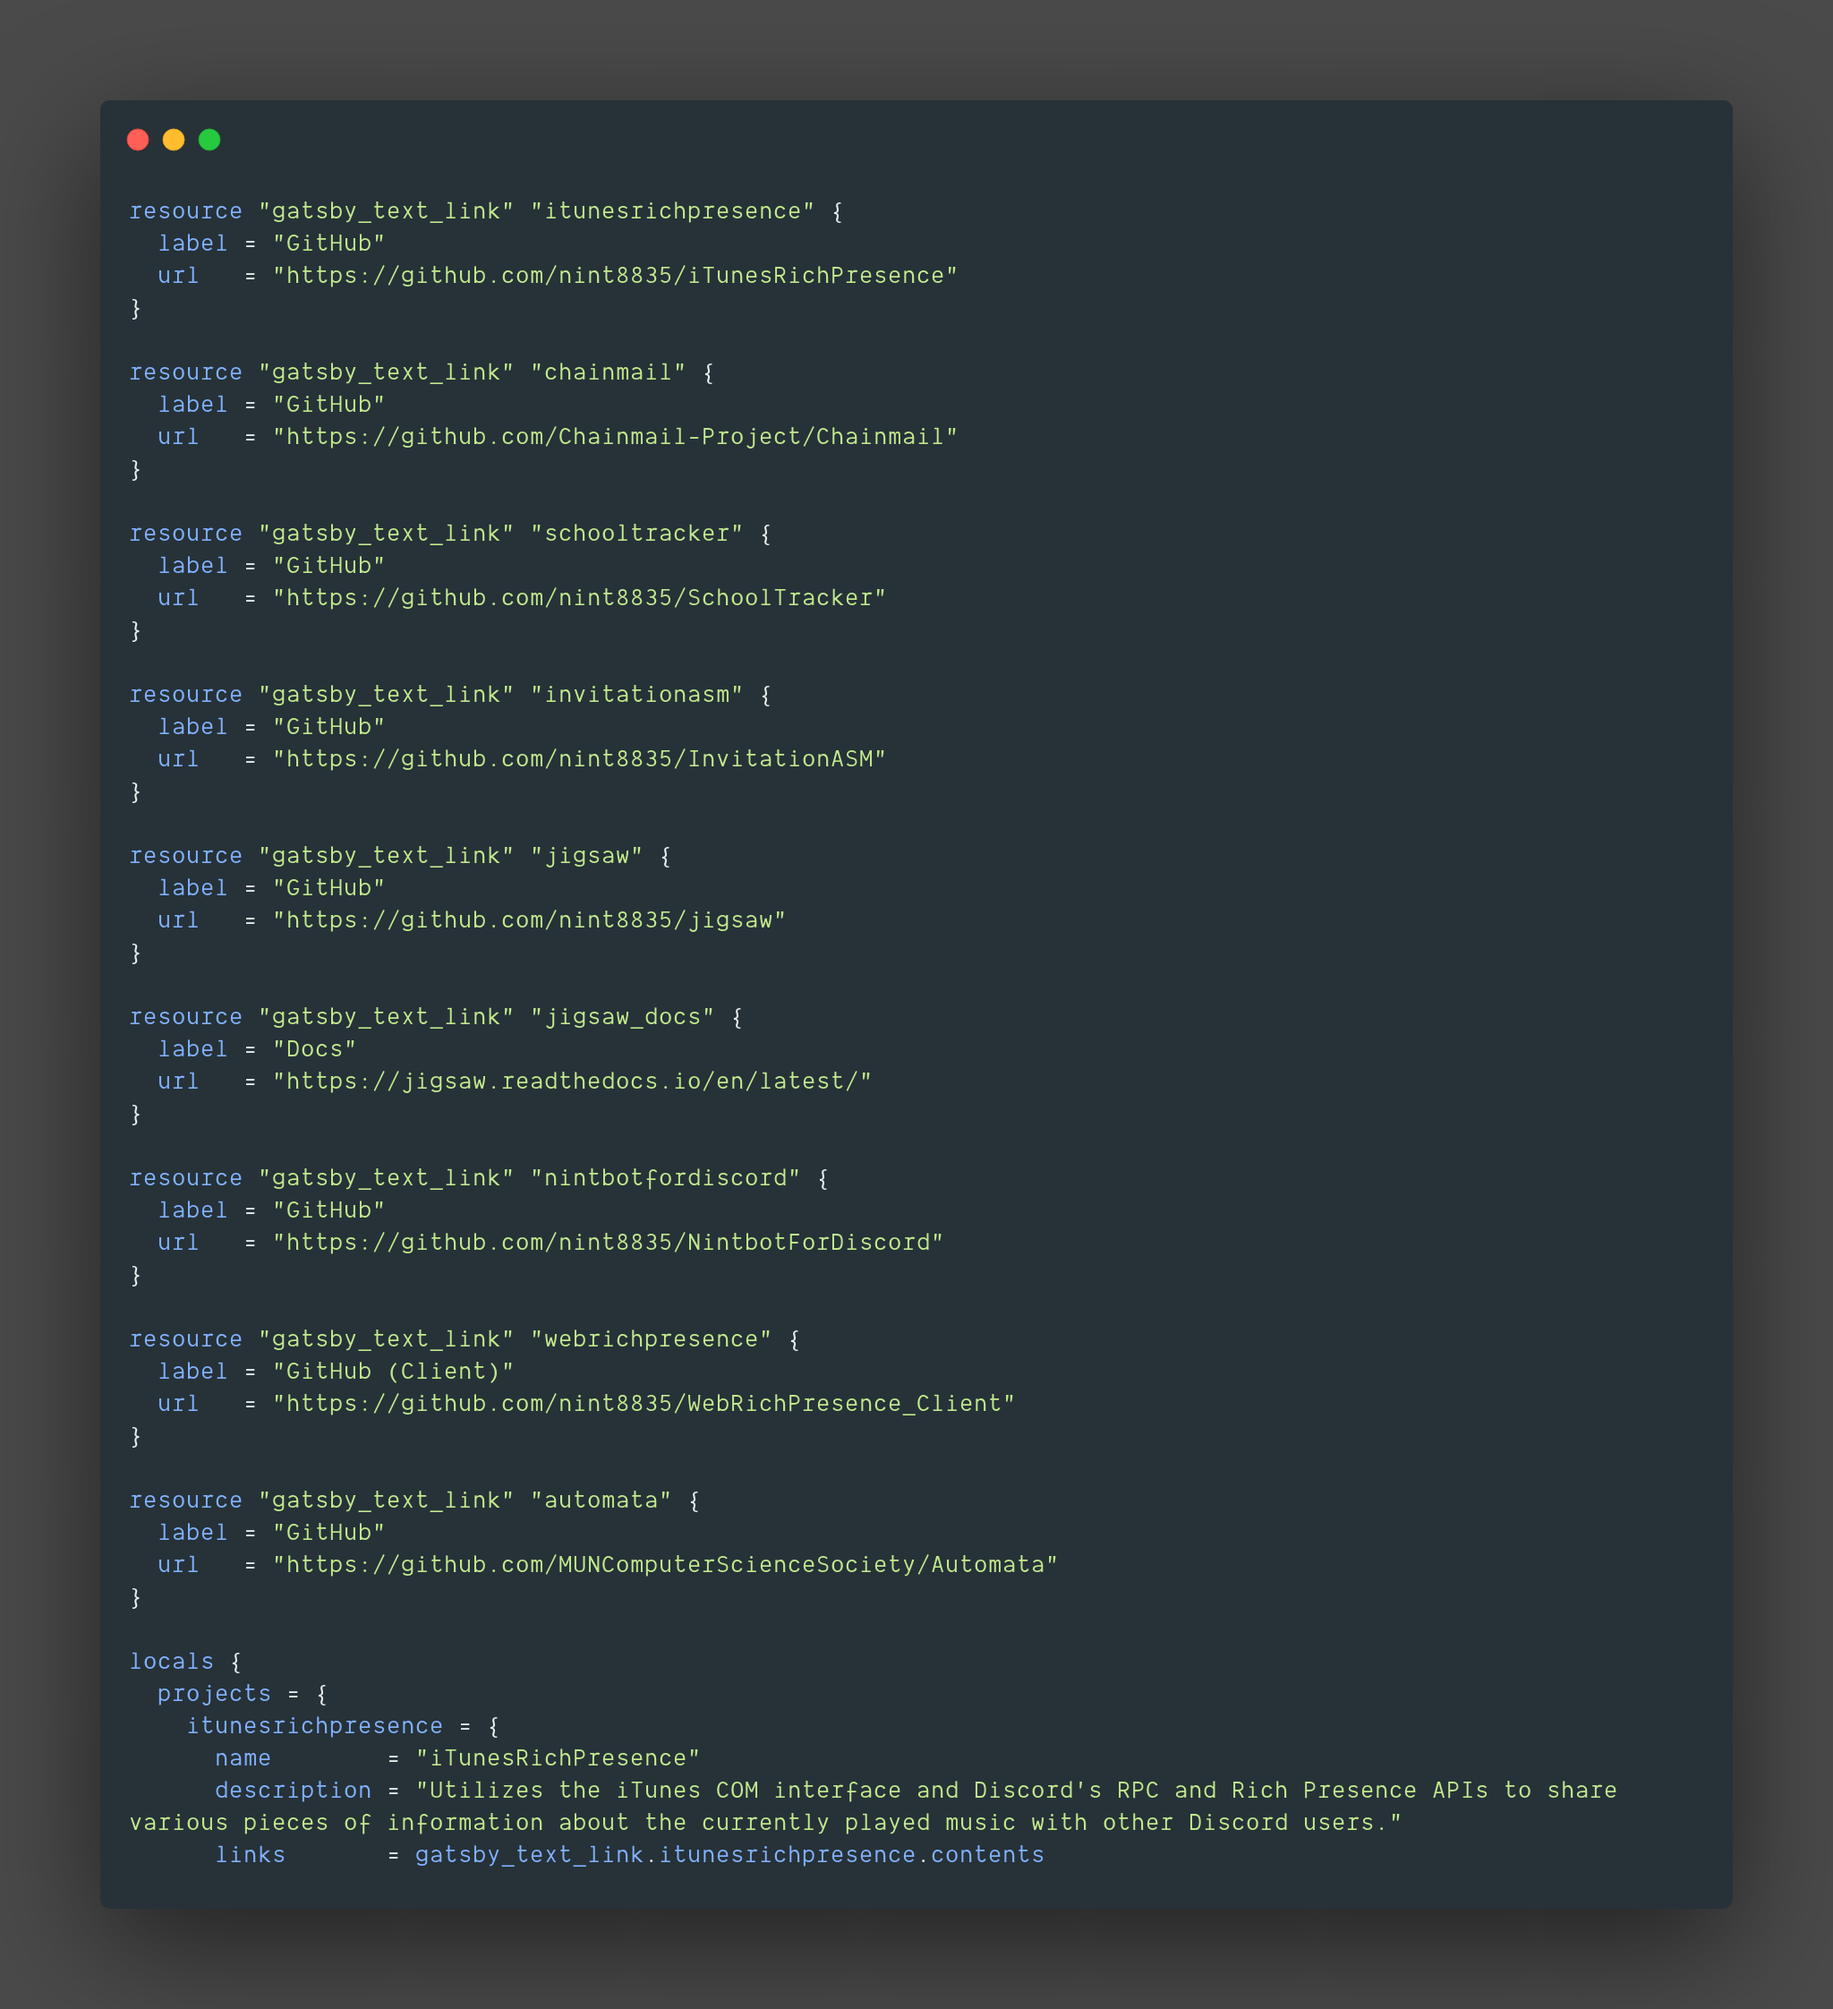
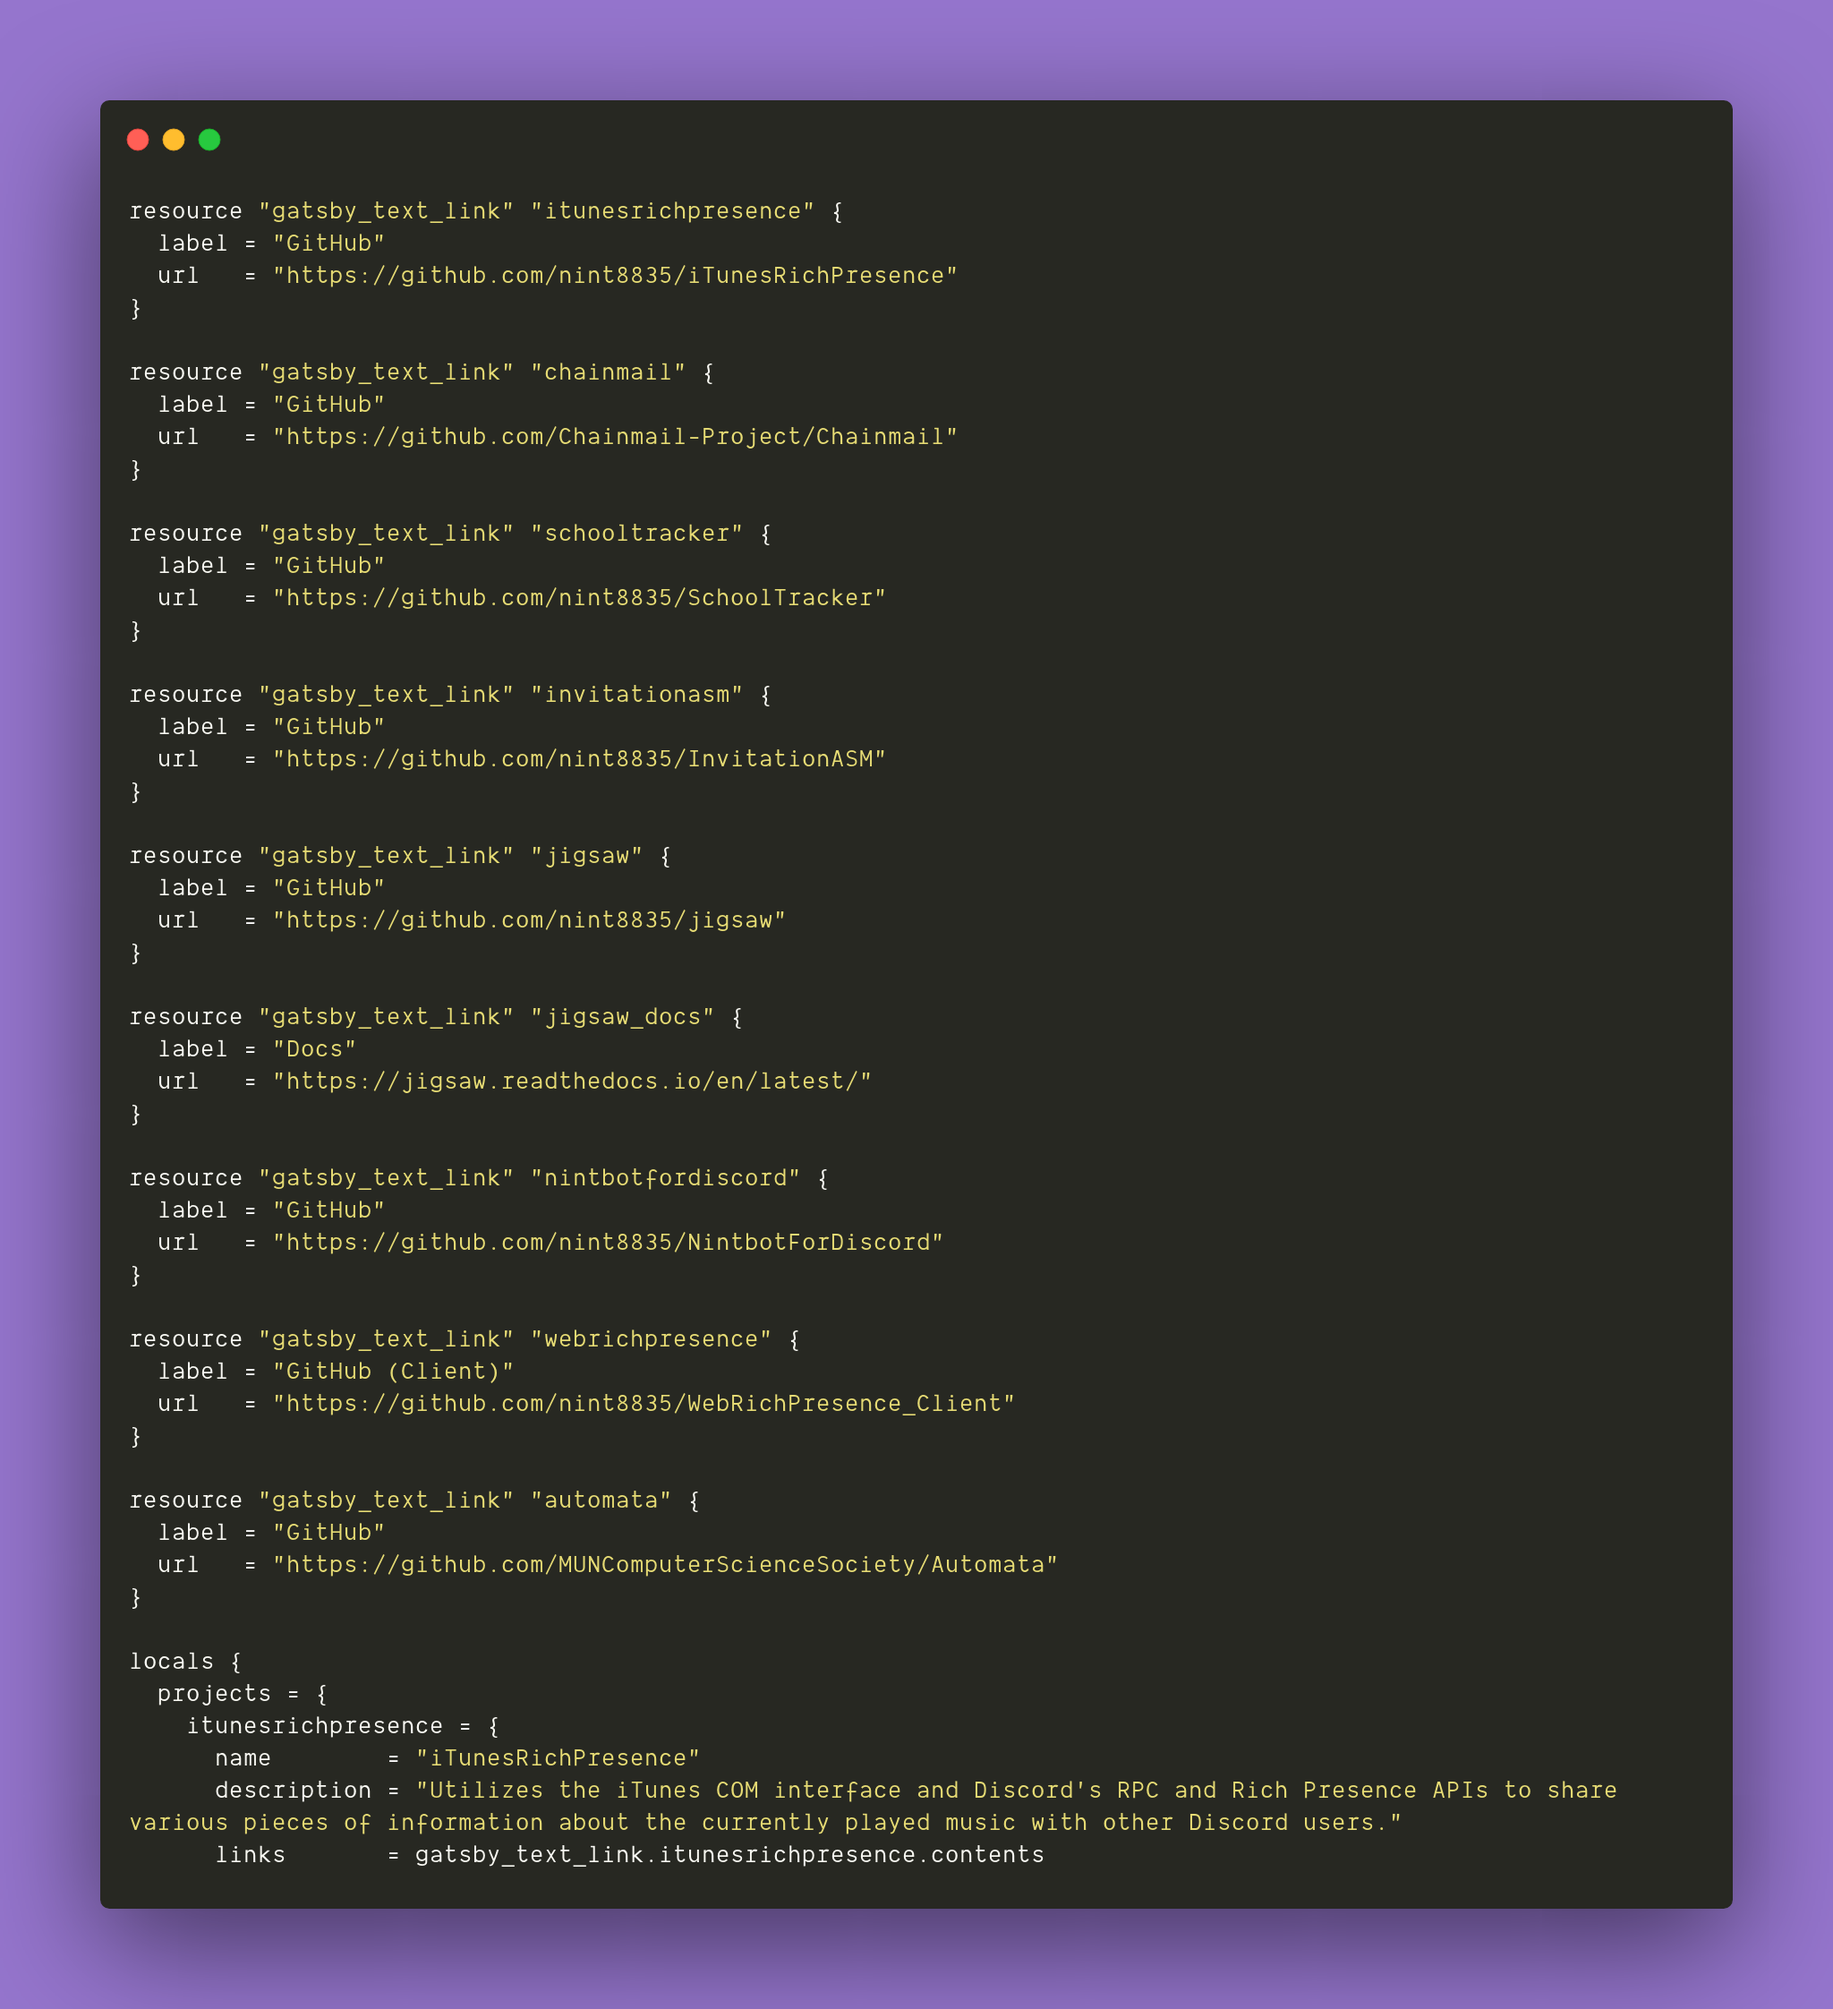
Remove hickmans, update images

diff --git a/gatsby-config.js b/gatsby-config.js
@@ -8,22 +8,21 @@ module.exports = {
   siteMetadata: {
     title: "Riley Flynn",
     titleTemplate: "%s - rileyflynn.me",
-    description:
-      "Full Stack Developer for CoLab Software",
+    description: "Full Stack Developer for CoLab Software",
     siteUrl: "https://rileyflynn.me",
     image: "/images/st_johns.jpg",
-    twitterUsername: "@BootlegJohn"
+    twitterUsername: "@BootlegJohn",
   },
   plugins: [
     {
-      resolve: `gatsby-plugin-typescript`
+      resolve: `gatsby-plugin-typescript`,
     },
     {
       resolve: `gatsby-source-filesystem`,
       options: {
         path: `${__dirname}/terraform`,
-        name: "terraform-pages"
-      }
+        name: "terraform-pages",
+      },
     },
     {
       resolve: `gatsby-transformer-terraform`,
@@ -44,11 +43,11 @@ module.exports = {
           {
             resolve: `gatsby-remark-prismjs`,
             options: {
-              showLineNumbers: true
-            }
-          }
-        ]
-      }
+              showLineNumbers: true,
+            },
+          },
+        ],
+      },
     },
     {
       resolve: `gatsby-plugin-manifest`,
@@ -59,15 +58,15 @@ module.exports = {
         background_color: `#292d3e`,
         theme_color: `#32374c`,
         display: `standalone`,
-        icon: `static/Favicon.png`
-      }
+        icon: `static/Favicon.png`,
+      },
     },
     `gatsby-plugin-remove-serviceworker`,
     {
       resolve: `gatsby-plugin-google-analytics`,
       options: {
-        trackingId: "UA-111281238-1"
-      }
+        trackingId: "UA-111281238-1",
+      },
     },
     `gatsby-plugin-react-helmet`,
     `gatsby-plugin-sitemap`,
@@ -75,8 +74,8 @@ module.exports = {
     {
       resolve: `gatsby-plugin-env-variables`,
       options: {
-        whitelist: ["DRONE_COMMIT", "DRONE_COMMIT_LINK"]
-      }
-    }
-  ]
+        whitelist: ["DRONE_COMMIT", "DRONE_COMMIT_LINK"],
+      },
+    },
+  ],
 };

diff --git a/src/util/carbon.js b/src/util/carbon.js
@@ -15,8 +15,8 @@ async function downloadImageForFile(filePath) {
       code: truncatedContents,
       language: "rust", // HCL / TF isn't a supported language, but this gets a reasonable looking output
       fontFamily: "dm",
-      backgroundColor: "rgba(74, 74, 74, 1)",
-      theme: "material",
+      backgroundColor: "rgba(149, 117, 205, 1)",
+      theme: "monokai",
     }),
     headers: { "Content-Type": "application/json" },
   });

diff --git a/src/components/styles/bottom_bar.module.css b/src/components/styles/bottom_bar.module.css
@@ -7,7 +7,7 @@
   height: 22px;
   line-height: 22px;
   background-color: #131313;
-  color: #69676C;
+  color: #69676c;
   border-top: 1px solid #131313;
   font-size: 12px;
 }
@@ -31,7 +31,7 @@
 }
 
 .link {
-  color: #69676C;
+  color: #69676c;
   height: 100%;
   padding: 0 5px;
   display: inline-block;

diff --git a/src/components/styles/editor.module.css b/src/components/styles/editor.module.css
@@ -41,7 +41,7 @@
   width: 1.5rem;
   height: 1.5rem;
   cursor: pointer;
-  color:  #69676c;
+  color: #69676c;
   display: flex;
   align-items: center;
   justify-content: center;
